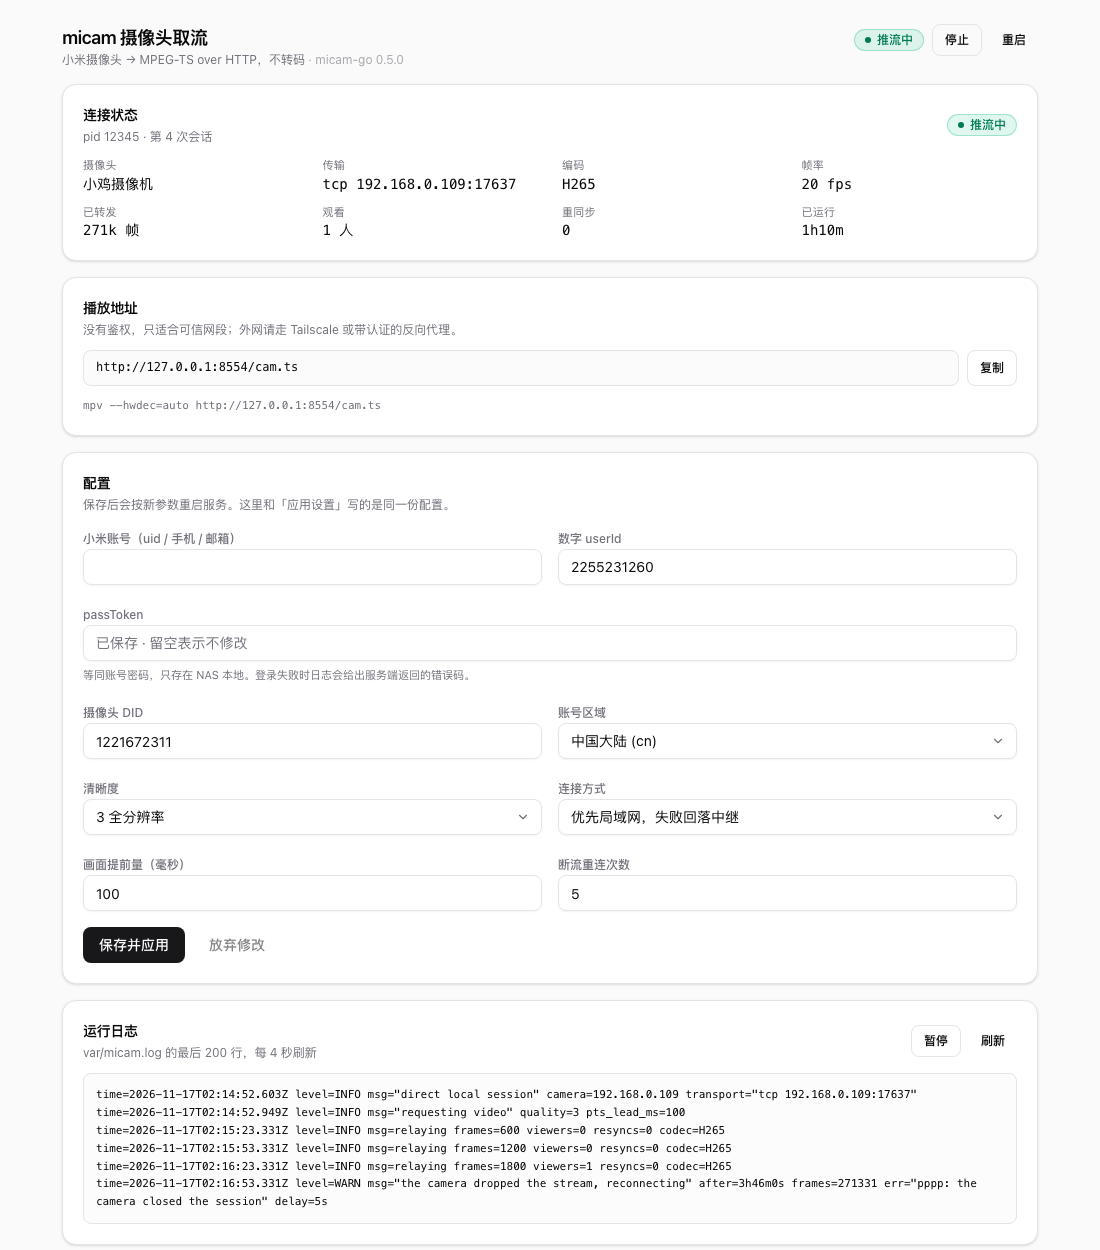
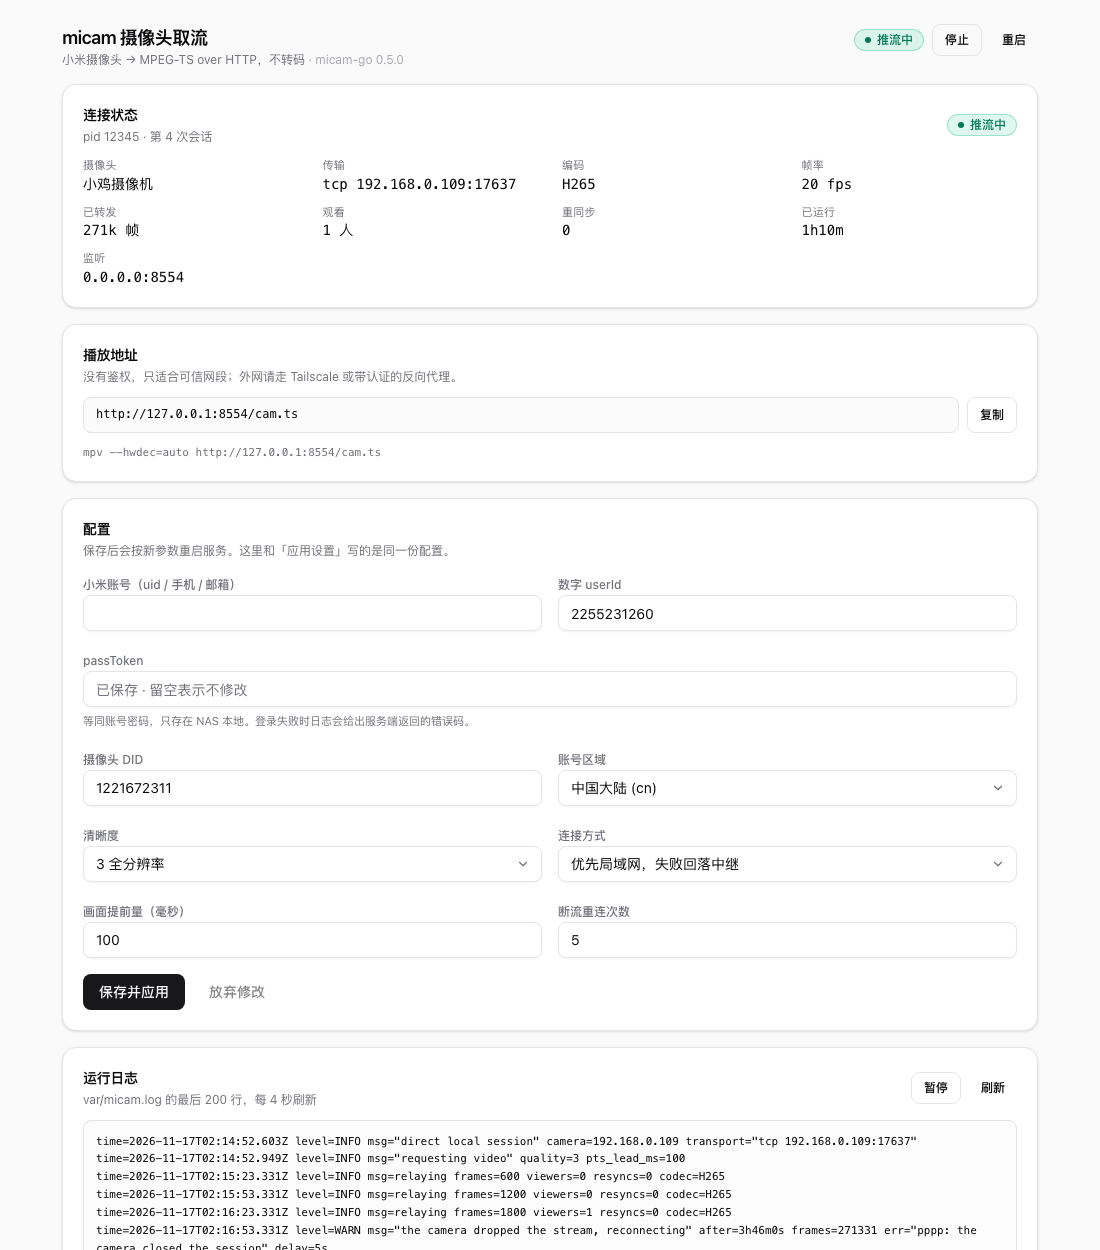
fix: say which address the stream actually bound
A remote viewer got 502 from the NAS's tailnet address while the log said
"Streaming at: http://127.0.0.1:8554/cam.ts". That line was misleading either way:
URL() rewrites 0.0.0.0 to 127.0.0.1 for display, so a wildcard listener looked
local, and a genuinely local-only listener looked exactly the same.

The server now reports the address the kernel gave it, the banner prints both
"Listening on" and the local URL, and a loopback bind gets a warning instead of
being buried: nothing outside the machine can reach it, which is the one failure
that looks completely healthy from the NAS. The status file and /api/status carry
the same value, and the UI shows it - with the warning spelled out when it is
127.x.

The README gains the decision table that was missing: 502 means an HTTP proxy in
the path failed, connection refused means nothing is listening, and a hang means
a firewall or ACL; plus the three commands (ss, curl from the NAS, tailscale
serve status) that tell them apart.

diff --git a/web/src/lib/components/status-card.svelte b/web/src/lib/components/status-card.svelte
@@ -12,6 +12,12 @@
     return () => clearInterval(timer);
   });
 
+  // A loopback bind looks healthy from the NAS and is unreachable from anywhere
+  // else: worth saying out loud.
+  let loopback = $derived(
+    !!app.bind && (app.bind.startsWith("127.") || app.bind.startsWith("[::1]")),
+  );
+
   let uptime = $derived(
     app.since ? Math.max(0, (now - new Date(app.since).getTime()) / 1000) : 0,
   );
@@ -25,6 +31,7 @@
     { label: "观看", value: `${app.viewers} 人` },
     { label: "重同步", value: String(app.resyncs) },
     { label: "已运行", value: app.state === "streaming" ? formatDuration(uptime) : "—" },
+    { label: "监听", value: app.bind || "—" },
   ]);
 </script>
 
@@ -47,7 +54,7 @@
   </CardHeader>
 
   <CardContent class="space-y-3">
-    <dl class="grid grid-cols-2 gap-x-6 gap-y-2.5 sm:grid-cols-4">
+    <dl class="grid grid-cols-2 gap-x-6 gap-y-2.5 sm:grid-cols-3 lg:grid-cols-4">
       {#each rows as row (row.label)}
         <div class="min-w-0">
           <dt class="text-[11px] tracking-wide text-muted-foreground uppercase">
@@ -57,6 +64,17 @@
         </div>
       {/each}
     </dl>
+
+    {#if loopback}
+      <p
+        class="rounded-md border border-amber-500/30 bg-amber-500/8 px-3 py-2 text-xs text-amber-800 dark:text-amber-200"
+      >
+        流只监听在本机（{app.bind}），局域网和 Tailscale 都打不开。
+        fnOS 包里由 <code class="font-mono">cmd/main</code> 设成 <code class="font-mono"
+          >0.0.0.0</code
+        >；手动运行时加 <code class="font-mono">--bind 0.0.0.0</code>。
+      </p>
+    {/if}
 
     {#if app.error}
       <p class="rounded-md border border-destructive/30 bg-destructive/8 px-3 py-2 font-mono text-xs break-words text-destructive">

diff --git a/web/src/lib/api.ts b/web/src/lib/api.ts
@@ -20,6 +20,8 @@ export interface AppStatus {
   camera?: string;
   transport?: string;
   codec?: string;
+  /** bind is where the HTTP stream listens; a 127.x address is local-only. */
+  bind?: string;
   frames: number;
   fps: number;
   viewers: number;

diff --git a/internal/stream/server_test.go b/internal/stream/server_test.go
@@ -4,6 +4,7 @@ import (
 	"io"
 	"log/slog"
 	"net/http"
+	"strings"
 	"testing"
 	"time"
 
@@ -210,4 +211,37 @@ func TestViewerCountReturnsToZero(t *testing.T) {
 		time.Sleep(10 * time.Millisecond)
 	}
 	t.Fatalf("viewers = %d after the player disconnected", server.Viewers())
+}
+
+// The banner and the UI must report the address the kernel actually bound, not the
+// configured one: "0.0.0.0" printed as "127.0.0.1" reads like "local only", and the
+// reverse mistake ("127.0.0.1" reported as reachable) hides every remote failure.
+func TestServerReportsWhatItBound(t *testing.T) {
+	server := New(Config{Addr: "127.0.0.1:0", Path: "/cam.ts"}, testLogger())
+	if err := server.Start(); err != nil {
+		t.Fatalf("Start: %v", err)
+	}
+	defer server.Close()
+
+	if got := server.Addr(); !strings.HasPrefix(got, "127.0.0.1:") {
+		t.Fatalf("Addr() = %q, want the bound loopback address", got)
+	}
+	if !server.Loopback() {
+		t.Fatal("a 127.0.0.1 listener must be reported as loopback")
+	}
+}
+
+func TestServerWildcardIsReachable(t *testing.T) {
+	server := New(Config{Addr: "0.0.0.0:0", Path: "/cam.ts"}, testLogger())
+	if err := server.Start(); err != nil {
+		t.Fatalf("Start: %v", err)
+	}
+	defer server.Close()
+
+	if server.Loopback() {
+		t.Fatalf("0.0.0.0 must not be reported as loopback (bound %q)", server.Addr())
+	}
+	if strings.HasPrefix(server.Addr(), "127.") {
+		t.Fatalf("Addr() = %q, want the wildcard the kernel bound", server.Addr())
+	}
 }

diff --git a/internal/stream/server.go b/internal/stream/server.go
@@ -7,7 +7,9 @@ import (
 	"log/slog"
 	"net"
 	"net/http"
+	"net/netip"
 	"strconv"
+	"strings"
 	"sync"
 	"time"
 
@@ -80,8 +82,29 @@ func (s *Server) Start() error {
 		}
 	}()
 
-	s.log.Info("streaming", "url", s.URL())
+	// The banner used to say 127.0.0.1 even when bound to 0.0.0.0, which reads like
+	// "local only" when it is not. Log what the kernel actually gave us.
+	s.log.Info("streaming", "listen", s.Addr(), "url", s.URL())
 	return nil
+}
+
+// Addr is the address the server actually bound: the configured port, and the
+// wildcard expanded to the interface it really listens on.
+func (s *Server) Addr() string {
+	if s.listener != nil {
+		return s.listener.Addr().String()
+	}
+	return s.cfg.Addr
+}
+
+// Loopback reports whether the listener is reachable only from this machine.
+func (s *Server) Loopback() bool {
+	addr, err := netip.ParseAddrPort(s.Addr())
+	if err != nil {
+		// Addr is either host:port or [::]:port; fall back to the cheap test.
+		return strings.HasPrefix(s.Addr(), "127.") || strings.HasPrefix(s.Addr(), "[::1]")
+	}
+	return addr.Addr().IsLoopback()
 }
 
 // URL is the address a player should open.

diff --git a/cmd/micam/session.go b/cmd/micam/session.go
@@ -257,16 +257,26 @@ func streamSession(ctx context.Context, opts *cli.Options, client *cloud.Client,
 	}
 	defer server.Close()
 
+	rep.Bind(server.Addr())
+
 	if showBanner {
 		fmt.Println()
-		fmt.Printf("  Streaming at:  %s\n", server.URL())
+		fmt.Printf("  Listening on:  %s\n", server.Addr())
+		fmt.Printf("  Local URL:     %s\n", server.URL())
 		fmt.Println()
 		fmt.Printf("    mpv    %s\n", server.URL())
 		fmt.Printf("    vlc    %s\n", server.URL())
 		fmt.Printf("    ffplay %s\n", server.URL())
 		fmt.Println()
 	} else {
-		log.Info("streaming again", "url", server.URL())
+		log.Info("streaming again", "listen", server.Addr(), "url", server.URL())
+	}
+
+	if server.Loopback() {
+		// The single most confusing failure: everything looks healthy, but nothing
+		// outside this machine can reach the stream.
+		log.Warn("the stream listens on loopback only, so nothing outside this machine can open it",
+			"listen", server.Addr(), "hint", "set --bind 0.0.0.0 (the fnOS package already does)")
 	}
 
 	frames := 0

diff --git a/internal/status/status.go b/internal/status/status.go
@@ -42,6 +42,10 @@ type Snapshot struct {
 	Transport string `json:"transport,omitempty"`
 	Codec     string `json:"codec,omitempty"`
 
+	// Bind is the address the HTTP server actually bound, so the UI can tell a
+	// wildcard listener from a loopback-only one.
+	Bind string `json:"bind,omitempty"`
+
 	Frames  int64   `json:"frames"`
 	FPS     float64 `json:"fps"`
 	Viewers int     `json:"viewers"`
@@ -195,8 +199,19 @@ func (r *Reporter) BeginSession(n int) {
 	r.snap.Viewers = 0
 	r.snap.Resyncs = 0
 	r.snap.Since = time.Time{}
+	r.snap.Bind = ""
 	r.frames = 0
 	r.at = r.now()
+}
+
+// Bind records where the stream is being served from.
+func (r *Reporter) Bind(addr string) {
+	if r == nil {
+		return
+	}
+	r.mu.Lock()
+	defer r.mu.Unlock()
+	r.snap.Bind = addr
 }
 
 // Connected records how the camera was reached, and when the session started.

diff --git a/internal/ctl/ctl.go b/internal/ctl/ctl.go
@@ -33,6 +33,10 @@ type AppStatus struct {
 	Transport string `json:"transport,omitempty"`
 	Codec     string `json:"codec,omitempty"`
 
+	// Bind is where the HTTP server listens; "127.0.0.1:8554" means only this
+	// machine can play the stream.
+	Bind string `json:"bind,omitempty"`
+
 	Frames  int64   `json:"frames"`
 	FPS     float64 `json:"fps"`
 	Viewers int     `json:"viewers"`
@@ -214,6 +218,7 @@ func (s *Server) snapshot(actionErr error) StatusResponse {
 		app.Camera = snap.Camera
 		app.Transport = snap.Transport
 		app.Codec = snap.Codec
+		app.Bind = snap.Bind
 		app.Frames = snap.Frames
 		app.FPS = snap.FPS
 		app.Viewers = snap.Viewers

diff --git a/README.md b/README.md
@@ -303,6 +303,43 @@ docker compose logs | grep -E "direct local session|connecting via"
 | `POST api/config` | 校验并写入配置，然后按新参数重启服务 |
 | `POST api/control` | `start` / `stop` / `restart`，统一走 `cmd/main` |
 
+### 从外面看（局域网 / Tailscale）
+
+流是普通 HTTP，地址就是 `http://<NAS 地址>:8554/cam.ts`。能打开的前提只有一个：micam
+监听在**非 loopback** 的地址上。fnOS 包里 `cmd/main` 会设 `MICAM_BIND=0.0.0.0`，界面
+「连接状态」里的**监听**一行显示的是内核实际绑定的地址——如果那行是 `127.0.0.1:8554`，
+就只有 NAS 自己能打开，局域网和 Tailscale 都不行（这时界面会直接标黄）。
+
+打不开时先分清是谁在报错，`curl` 比浏览器诚实：
+
+| 现象 | 说明 |
+|---|---|
+| `200` 然后一直吐二进制 | 正常 |
+| `502 Bad Gateway` | **链路上有一个 HTTP 代理**（tailscale serve、nginx、飞牛网关…），它连不上后端 |
+| `Connection refused` | 这个地址端口上没有进程在听 |
+| 一直卡住直到超时 | 防火墙或 Tailscale ACL 把包丢了 |
+
+502 最容易误判，因为 micam 从不产生 502：它要么 200 开始推流，要么直接被拒绝。三步定位：
+
+```sh
+# 1) 谁在监听 8554。可能不止一个：0.0.0.0 和某个具体 IP 可以同时存在
+sudo ss -ltnp | grep 8554
+
+# 2) 在 NAS 本机上分别打两个地址，绕开客户端
+curl -sI --max-time 3 http://127.0.0.1:8554/cam.ts
+curl -sI --max-time 3 "http://$(tailscale ip -4 | head -1):8554/cam.ts"
+
+# 3) tailscale 有没有在这个端口上做 serve / funnel
+tailscale serve status
+tailscale funnel status
+```
+
+第 2 步在本机返回 200、外部仍然 502，问题就在 NAS 之外（客户端代理、出口节点），
+和 micam 无关。反过来，本机也 502，说明那个 IP:端口 上答话的不是 micam——`ss` 的输出
+会直接告诉你是谁。
+
+防火墙要在 fnOS 的「安全」里放行 8554（或对应的自定义端口），否则外部表现为超时。
+
 ### 打包成 fnOS 应用（fpk）
 
 `packaging/fnos/` 是一套按飞牛规范写的应用包，**直接跑静态二进制，不用 Docker**：

diff --git a/packaging/fnos/README.md b/packaging/fnos/README.md
@@ -124,7 +124,7 @@ cmd/main start
 ## 状态文件
 
 micam 每 2 秒把状态原子重写到 `var/status.json`（先写 `.tmp` 再 rename，读到的永远是
-完整文档）：状态、会话号、摄像头、传输方式、编码、帧数、帧率、观众数、重同步次数、
+完整文档）：状态、会话号、摄像头、传输方式、编码、监听地址、帧数、帧率、观众数、重同步次数、
 开始时间、最后的错误。界面轮询的就是它。
 
 进程没在跑时，`micam ctl` 会用 pidfile 判断，把状态显示成"已停止"，同时保留最后一条
